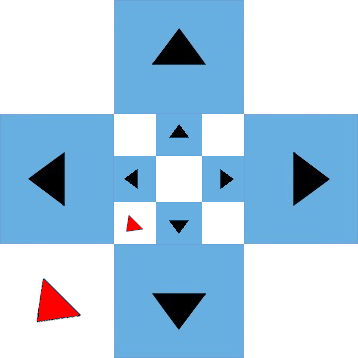
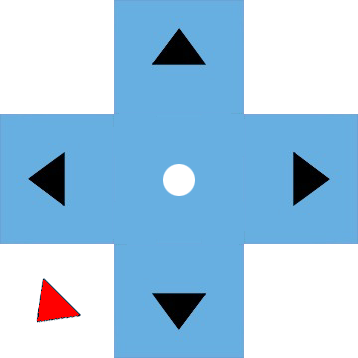
Added B/A

Changed region(s): [[0.3073, 0.3073, 0.7067, 0.7067]]

diff --git a/examples/dpad/dpad.js b/examples/dpad/dpad.js
@@ -11,14 +11,14 @@
         dpadCenterX = dpadOffsetX+dpadWidth/2,
         dpadCenterY = dpadOffsetY+dpadHeight/2,
         // Hitzone Generation Vars
-        smallestSize = 8,
+        smallestSize = 32,
         largestSize = 256,
         dpadRangeWidth = dpadOffsetX*2+dpadWidth,
         dpadRangeHeight = 640,
         // Draw Mode
         //    "normal" Draws Regularly
         //    "hitrects" Makes the controller display the HitRects of all Rects
-        drawMode = "hitrects",        
+        drawMode = "hitrects",
         // 
         states = {
           // State that is mutated as BM events come in
@@ -26,13 +26,17 @@
             left:0,
             right:0,
             up:0,
-            down:0
+            down:0,
+            a:0,
+            b:0
           },
           current:{
             left:false,
             right:false,
             up:false,
-            down:false
+            down:false,
+            a:false,
+            b:false
           },
           // Shadow state is updated each game loop
           // to hold the previous states of the dpad
@@ -41,8 +45,22 @@
             left:false,
             right:false,
             up:false,
-            down:false
+            down:false,
+            a:false,
+            b:false
           }
+        },
+        allStates = {
+          up:1,
+          upright:1,
+          right:1,
+          downright:1,
+          down:1,
+          downleft:1,
+          left:1,
+          upleft:1,
+          a:1,
+          b:1
         };
         
     // Add Resources
@@ -55,6 +73,10 @@
     images.push('dpad-down.png');
     images.push('dpad-downleft.png');
     images.push('dpad-left.png');
+    images.push('a-up.png');
+    images.push('a-down.png');
+    images.push('b-up.png');
+    images.push('b-down.png');
     images.push('transparent.png');
     
     // Hitrect Draw Mode images
@@ -84,7 +106,41 @@
       height: dpadHeight
     });
     
-    generateHitRects();
+    // Generate Controller elements
+    generateDPad();
+    // Add A/B buttons
+    layout.push({
+      type:       "button",
+      handler:    "b",
+      imageUp:    getImageIndex('b-up.png',images),
+      imageDown:  getImageIndex('b-down.png',images),
+      x:          508,
+      y:          346,
+      width:      180,
+      height:     180,
+      hitRect: {
+        x:          465,
+        y:          219,
+        width:      256,
+        height:     422
+      }
+    });
+    layout.push({
+      type:       "button",
+      handler:    "a",
+      imageUp:    getImageIndex('a-up.png',images),
+      imageDown:  getImageIndex('a-down.png',images),
+      x:          712,
+      y:          346,
+      width:      180,
+      height:     180,
+      hitRect: {
+        x:          679,
+        y:          218,
+        width:      281,
+        height:     422
+      }
+    });
     
     this.getState = function(which){
       return states.current[which];
@@ -150,6 +206,11 @@
     }
     
     bm.onInvocation(function(invoke, deviceId){
+      // Ignore Buttons we didn't generate
+      if(typeof allStates[invoke.methodName]=='undefined'){
+        return;
+      }
+    
       var keyDown = invoke.parameters[0].Value=="down",
           realName = invoke.methodName.replace('small');
      
@@ -167,7 +228,7 @@
       }
     });
     
-    function generateHitRects(){
+    function generateDPad(){
       for(var y=0; y<dpadRangeHeight;y+=largestSize){
         for(var x=0; x<dpadRangeWidth;x+=largestSize){
           splitHitRect(x,y,largestSize);

diff --git a/examples/dpad/dpad.html b/examples/dpad/dpad.html
@@ -37,11 +37,12 @@
   <p id="angle">0</p>
   <div id="slot-color" style="float: left;width:100px;height:100px;text-align:center;line-height:100px;font-family:Arial;">Slot Color</div>
   <img id="dpad" src="dpad.png" />
-  <div id="log"></div>
+  
   <div id="world">
     <canvas id="canvas" width="640" height="480"></canvas>
     <div id="character"></div>
   </div>
+  <div id="log"></div>
   <script>
     var images = [],
         layout = [],
@@ -49,6 +50,14 @@
         // so that some resources/elements can be procedurally
         // added to them
         dpad = new DPad(images,layout);
+        
+    
+  
+    dpad.on(function(which,isKeyDown){
+      var log = document.getElementById('log');
+      //log.innerHTML = (which+' '+(isKeyDown?"pressed":"released"))+'<br>'+log.innerHTML
+//      console.log();
+    });
   
     bm.init({
       name: "DPad - SDK Examples",
@@ -70,10 +79,11 @@
     
     var x = 320-8,
         y = 240-8,
-        lastUpdate = (new Date).getTime();
+        lastUpdate = (new Date).getTime(),
+        speed = 110;
     setInterval(function(){
       var curTime = (new Date).getTime(),
-          timeElapsed = curTime-lastUpdate;
+          timeElapsed = (curTime-lastUpdate)/1000;// Convert to seconds
       lastUpdate = curTime;
     
       // Let the DPad update it's states
@@ -83,16 +93,16 @@
       document.getElementById('dpad').src = dpad.getCurrentStateImage();
       
       if(dpad.getState('right')){
-        x+=4; 
+        x+=speed*timeElapsed; 
       }
       if(dpad.getState('left')){
-        x-=4; 
+        x-=speed*timeElapsed; 
       }
       if(dpad.getState('up')){
-        y-=4; 
+        y-=speed*timeElapsed; 
       }
       if(dpad.getState('down')){
-        y+=4; 
+        y+=speed*timeElapsed; 
       }
       
       document.getElementById('character').style.marginLeft = x+"px";
@@ -146,7 +156,7 @@
     document.getElementById('world').onmousemove = function(e){
       var angle = getAngle(e.clientX-320,e.clientY-240-135),
           zone = getZone(angle);
-      document.getElementById('angle').innerHTML = ""+angle+"  "+zone+" "+zonesLookUp[zone];
+      //document.getElementById('angle').innerHTML = ""+angle+"  "+zone+" "+zonesLookUp[zone];
     };
     angle
   </script>
